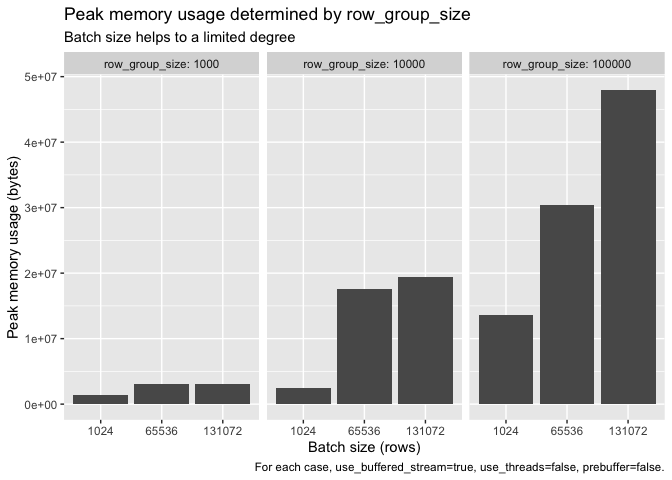
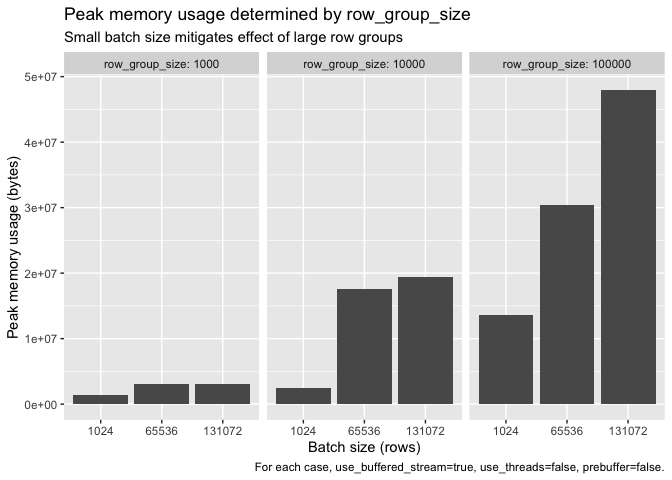
fix: Fix subtitle on one graph

Changed region(s): [[0.0938, 0.0625, 0.5938, 0.0938]]

diff --git a/readme.md b/readme.md
@@ -51,7 +51,7 @@ data %>%
     facet_grid(~ row_group_size, labeller = label_both) + 
     labs(
       title="Peak memory usage determined by row_group_size",
-      subtitle="Batch size helps to a limited degree",
+      subtitle="Small batch size mitigates effect of large row groups",
       x = "Batch size (rows)",
       y = "Peak memory usage (bytes)",
       caption = "For each case, use_buffered_stream=true, use_threads=false, prebuffer=false."
